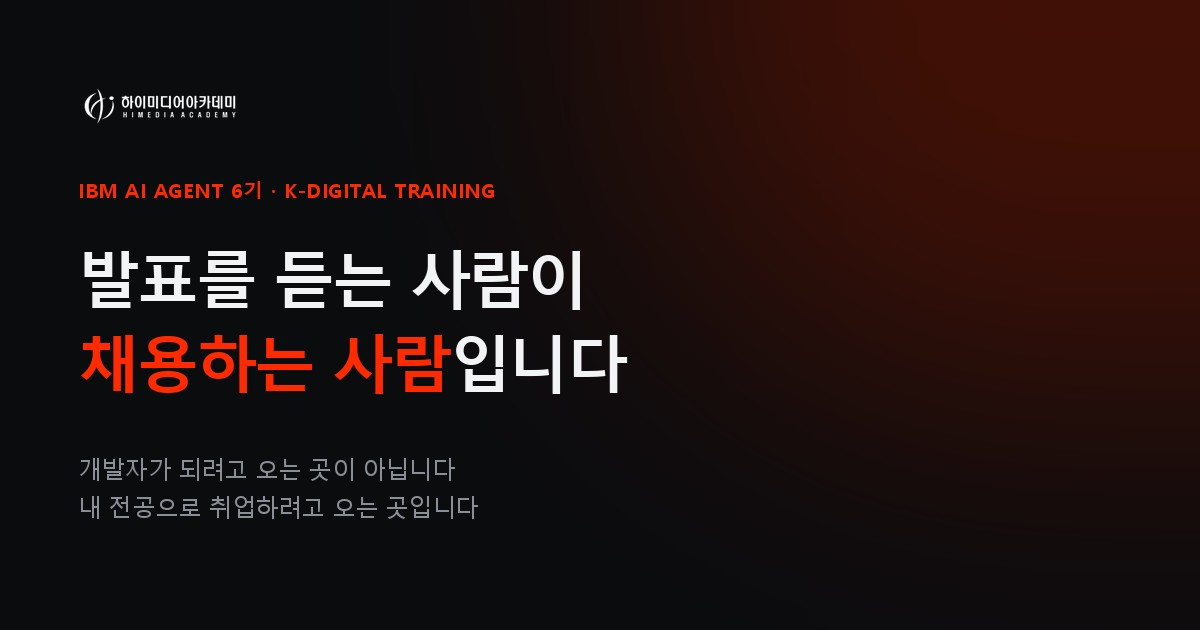
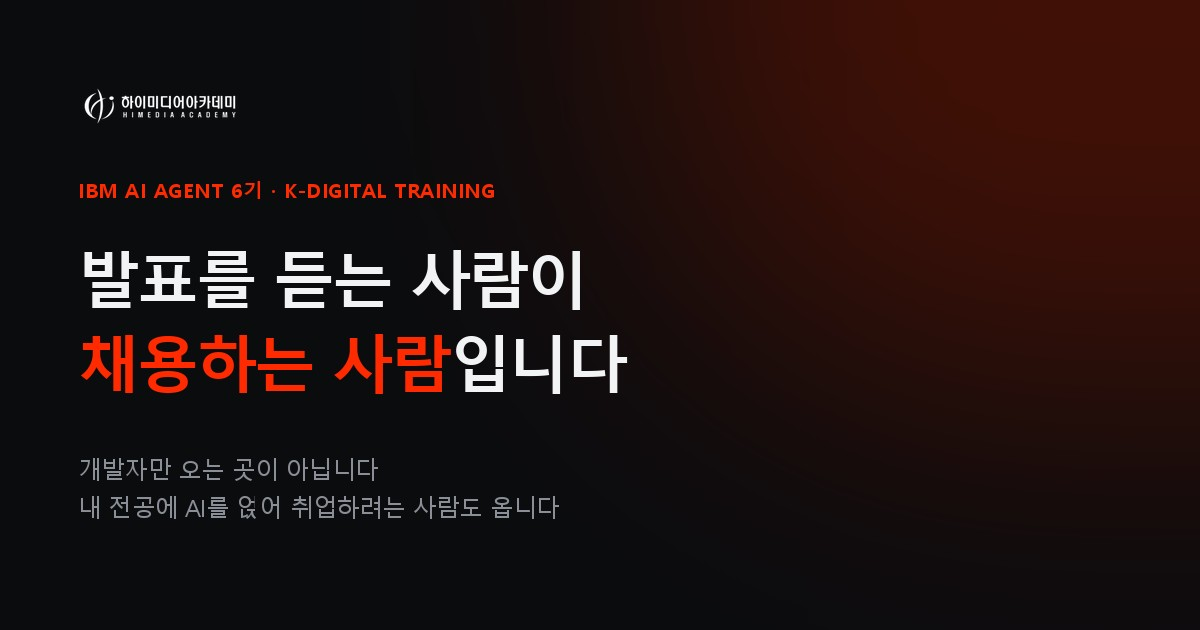
만든 사람 의도를 단정하던 문구 수정
"이 여덟 개 중 개발자가 되려고 만든 건 없습니다" 는 확인한 적 없는
주장이다. 개발자를 목표로 만든 것도 있다. 사실인 것만 남긴다:
여덟 팀이 고른 문제가 전부 달랐다.

같은 잘못이 네 군데 더 있었다. 히어로의 "개발자가 되려고 오는 곳이
아닙니다" 는 이 과정의 주 대상을 부정하는 말이라 "개발자만 오는 곳이
아닙니다" 로 바꿨다. "그런 사람이 더 많습니다" 도 비율을 확인한 적이
없어 뺐다. 검색·공유용 설명과 카드 이미지에도 같은 문장이 박혀 있어
함께 고쳤다.

Changed region(s): [[0.1233, 0.7238, 0.4625, 0.8444]]

diff --git a/index.html b/index.html
@@ -4,14 +4,14 @@
 <meta charset="utf-8">
 <meta name="viewport" content="width=device-width, initial-scale=1">
 <title>발표를 듣는 사람이 채용하는 사람입니다 · IBM AI Agent 6기</title>
-<meta name="description" content="개발자가 되려고 오는 곳이 아닙니다. 내 전공으로 취업하려고 오는 곳입니다. IBM Cloud Native Dev base AI Agent 6기, 1,040시간 국비지원 과정.">
+<meta name="description" content="개발자만 오는 곳이 아닙니다. 내 전공에 AI를 얹어 취업하려는 사람도 옵니다. IBM Cloud Native Dev base AI Agent 6기, 1,040시간 국비지원 과정.">
 <link rel="canonical" href="https://sio60.github.io/sio60.github.io-IBM/">
 <meta property="og:type" content="website">
 <meta property="og:site_name" content="하이미디어아카데미 강남캠퍼스">
 <meta property="og:locale" content="ko_KR">
 <meta property="og:url" content="https://sio60.github.io/sio60.github.io-IBM/">
 <meta property="og:title" content="발표를 듣는 사람이 채용하는 사람입니다 · IBM AI Agent 6기">
-<meta property="og:description" content="개발자가 되려고 오는 곳이 아닙니다. 내 전공으로 취업하려고 오는 곳입니다.">
+<meta property="og:description" content="개발자만 오는 곳이 아닙니다. 내 전공에 AI를 얹어 취업하려는 사람도 옵니다.">
 <meta property="og:image" content="https://sio60.github.io/sio60.github.io-IBM/assets/og.jpg?v=1">
 <meta property="og:image:type" content="image/jpeg">
 <meta property="og:image:width" content="1200">
@@ -19,7 +19,7 @@
 <meta property="og:image:alt" content="발표를 듣는 사람이 채용하는 사람입니다 · 하이미디어아카데미 강남캠퍼스">
 <meta name="twitter:card" content="summary_large_image">
 <meta name="twitter:title" content="발표를 듣는 사람이 채용하는 사람입니다 · IBM AI Agent 6기">
-<meta name="twitter:description" content="개발자가 되려고 오는 곳이 아닙니다. 내 전공으로 취업하려고 오는 곳입니다.">
+<meta name="twitter:description" content="개발자만 오는 곳이 아닙니다. 내 전공에 AI를 얹어 취업하려는 사람도 옵니다.">
 <meta name="twitter:image" content="https://sio60.github.io/sio60.github.io-IBM/assets/og.jpg?v=1">
 <link rel="preconnect" href="https://cdn.jsdelivr.net">
 <link rel="stylesheet" href="https://cdn.jsdelivr.net/gh/orioncactus/pretendard@v1.3.9/dist/web/variable/pretendardvariable-dynamic-subset.min.css">
@@ -317,8 +317,8 @@ p,li{text-wrap:pretty}
     <p class="hero__k">K-DIGITAL TRAINING · IBM CLOUD NATIVE DEV BASE AI AGENT 6기</p>
     <h1 class="hero__h1">발표를 듣는 사람이<br><em>채용하는 사람</em>입니다</h1>
     <p class="hero__s">
-      개발자가 되려고 오는 곳이 아닙니다.
-      <b>내 전공으로 취업하려고</b> 오는 곳입니다.
+      개발자만 오는 곳이 아닙니다.
+      <b>내 전공에 AI를 얹어</b> 취업하려는 사람도 옵니다.
     </p>
     <div class="hero__cta">
       <a class="btn btn--red" href="#apply">지원하기</a>
@@ -358,8 +358,8 @@ p,li{text-wrap:pretty}
       </div>
       <div class="qa__c qa__c--hi">
         <p class="qa__q">"개발자가 될 생각은 없는데요?"</p>
-        <p class="qa__a">그런 사람이 더 많습니다</p>
-        <p class="qa__d">앞 기수가 만든 것은 농업, 상권, 제조, 관제, 문서 업무였습니다. 개발이 목적이 아니라 각자 아는 분야의 문제를 푼 결과물입니다.</p>
+        <p class="qa__a">그래도 됩니다</p>
+        <p class="qa__d">앞 기수 결과물은 농업, 상권, 제조, 관제, 문서 업무까지 걸쳐 있습니다. 개발 직군으로 가지 않더라도 자기 분야의 문제를 푸는 데 씁니다.</p>
       </div>
     </div>
   </div>
@@ -369,10 +369,10 @@ p,li{text-wrap:pretty}
 <section class="sec sec--light" id="works">
   <div class="wrap">
     <p class="k rv">먼저 지나간 사람들이 만든 것</p>
-    <h2 class="h2 rv">이 여덟 개 중,<br><em>개발자가 되려고</em> 만든 건 없습니다</h2>
+    <h2 class="h2 rv">여덟 팀이 고른 문제는<br><em>전부 달랐습니다</em></h2>
     <p class="lede rv">
-      직전 두 기수가 실제로 완성해 발표한 결과물입니다.
-      고른 문제를 보면 이 과정에 누가 오는지가 보입니다.
+      직전 두 기수가 완성해 발표한 결과물입니다.
+      무엇을 고르는지를 보면 이 과정에 누가 오는지가 보입니다.
     </p>
 
     <div class="pf rv">
@@ -450,8 +450,8 @@ p,li{text-wrap:pretty}
     </div>
 
     <p class="pf__foot rv">
-      여덟 개가 전부 다른 분야입니다.<br>
-      각자 알던 분야에 AI를 얹었기 때문에 나온 결과입니다.
+      개발 직군을 목표로 하는 사람도, 자기 전공으로 돌아갈 사람도<br>
+      같은 자리에서 만듭니다.
     </p>
   </div>
 </section>
@@ -622,7 +622,7 @@ p,li{text-wrap:pretty}
     <div class="faq rv">
       <details open>
         <summary>개발자가 될 생각이 없어도 지원할 수 있나요?</summary>
-        <p>지원할 수 있습니다. 앞 기수 결과물이 농업, 상권, 제조, 관제, 문서 업무처럼 서로 다른 분야였던 것도 그래서입니다. 자기가 아는 분야의 문제를 골라 에이전트로 푸는 것이 이 과정의 방식입니다.</p>
+        <p>지원할 수 있습니다. 앞 기수 결과물을 보면 농업, 상권, 제조, 관제, 문서 업무까지 걸쳐 있습니다. 자기가 아는 분야의 문제를 골라 에이전트로 푸는 방식이라, 개발 직군이 목표가 아니어도 쓸 데가 있습니다.</p>
       </details>
       <details>
         <summary>비전공자도 따라갈 수 있나요?</summary>
